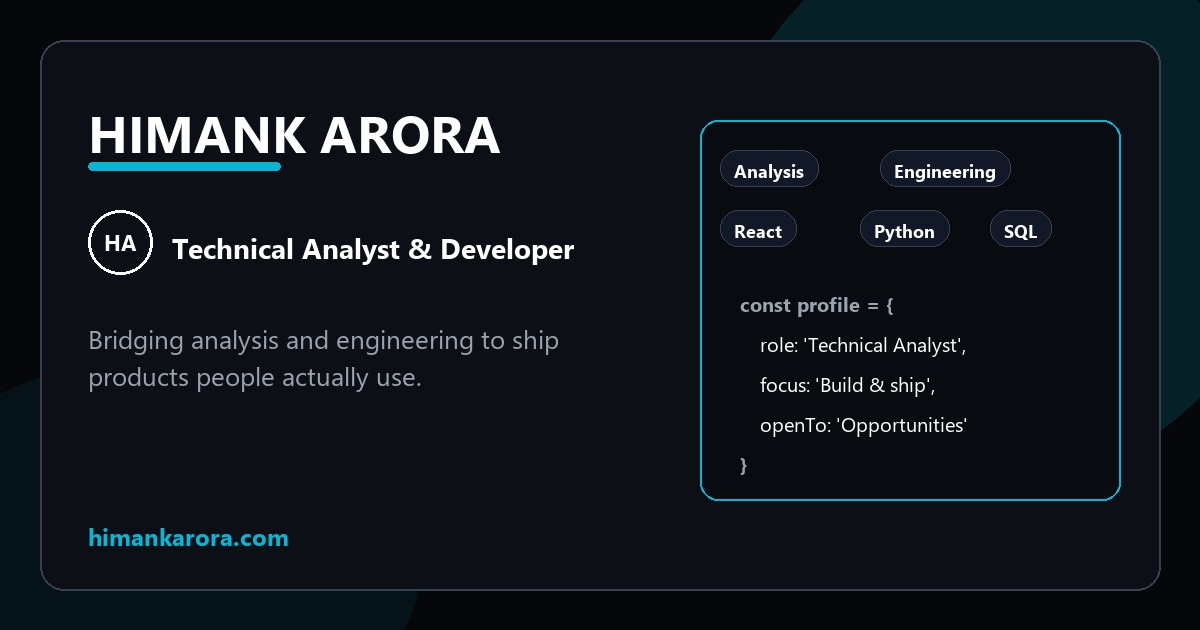
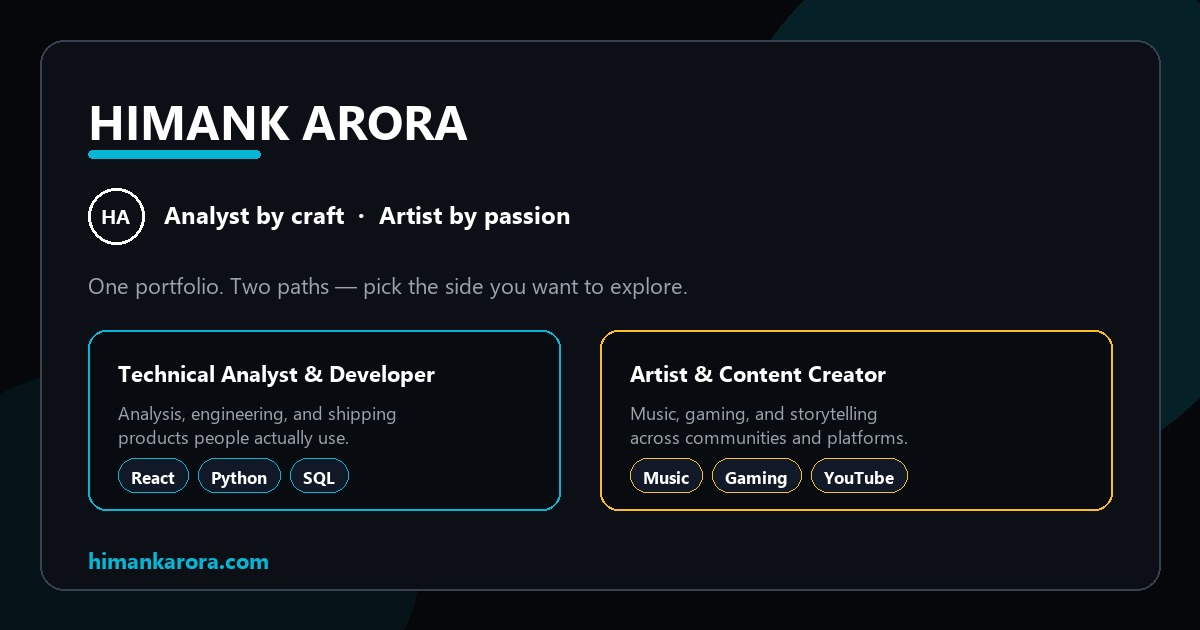
Make hub share preview dual-identity; add tech and artist OG images.

diff --git a/public/index.html b/public/index.html
@@ -22,23 +22,23 @@
     <meta name="geo.placename" content="Boston" />
     
     <!-- Enhanced Open Graph Meta Tags -->
-    <meta property="og:title" content="Himank Arora - Technical Analyst & Developer Portfolio" />
-    <meta property="og:description" content="IT professional who bridges analysis and engineering: turning business needs into working products. Also a creative artist and content creator." />
+    <meta property="og:title" content="Himank Arora — Analyst by craft, Artist by passion" />
+    <meta property="og:description" content="Explore both sides: Technical Analyst & Developer, and Artist & Content Creator. Analysis-driven product work, development projects, music, and creative content." />
     <meta property="og:type" content="website" />
     <meta property="og:url" content="https://himankarora.com" />
     <meta property="og:image" content="https://himankarora.com/images/og-image.jpg" />
     <meta property="og:image:width" content="1200" />
     <meta property="og:image:height" content="630" />
-    <meta property="og:image:alt" content="Himank Arora - Technical Analyst & Developer Portfolio" />
+    <meta property="og:image:alt" content="Himank Arora — Technical Analyst & Developer and Artist & Content Creator" />
     <meta property="og:site_name" content="Himank Arora Portfolio" />
     <meta property="og:locale" content="en_US" />
     
     <!-- Enhanced Twitter Card Meta Tags -->
     <meta name="twitter:card" content="summary_large_image" />
-    <meta name="twitter:title" content="Himank Arora - Technical Analyst & Developer" />
-    <meta name="twitter:description" content="Portfolio showcasing analysis-driven product work, development projects, music, and creative content." />
+    <meta name="twitter:title" content="Himank Arora — Analyst by craft, Artist by passion" />
+    <meta name="twitter:description" content="Explore both sides: Technical Analyst & Developer, and Artist & Content Creator." />
     <meta name="twitter:image" content="https://himankarora.com/images/twitter-image.jpg" />
-    <meta name="twitter:image:alt" content="Himank Arora Portfolio Preview" />
+    <meta name="twitter:image:alt" content="Himank Arora dual portfolio preview" />
     <meta name="twitter:creator" content="@himankaroraa" />
     <meta name="twitter:site" content="@himankaroraa" />
     

diff --git a/src/utils/contentManager.js b/src/utils/contentManager.js
@@ -586,6 +586,8 @@ export const contentData = {
     site_url: "https://himankarora.com",
     site_name: "Himank Arora Portfolio",
     og_image: "/images/og-image.jpg",
+    og_image_tech: "/images/og-image-tech.jpg",
+    og_image_artist: "/images/og-image-artist.jpg",
     twitter_image: "/images/twitter-image.jpg",
     favicon: "/favicon.ico",
     last_updated: new Date().toISOString(),
@@ -661,8 +663,8 @@ export const getCertificationById = (id) => {
 // SEO helpers
 export const generateSEOData = (page) => {
   const baseData = {
-    title: `${contentData.personal.name} - ${contentData.personal.title}`,
-    description: contentData.personal.bio,
+    title: `${contentData.personal.name} — Analyst by craft, Artist by passion`,
+    description: "Explore both sides: Technical Analyst & Developer, and Artist & Content Creator. Analysis-driven product work, development projects, music, and creative content.",
     url: contentData.meta.site_url,
     image: `${contentData.meta.site_url}${contentData.meta.og_image}`,
     keywords: contentData.meta.keywords.join(', ')
@@ -674,6 +676,7 @@ export const generateSEOData = (page) => {
         ...baseData,
         title: `${contentData.personal.name} - Technical Analyst & Developer`,
         description: "IT professional who bridges analysis and engineering: turning business needs into working products across data tools, web apps, and AI-enabled systems.",
+        image: `${contentData.meta.site_url}${contentData.meta.og_image_tech}`,
         keywords: [
           ...contentData.meta.keywords,
           "portfolio",
@@ -686,8 +689,9 @@ export const generateSEOData = (page) => {
     case 'artist':
       return {
         ...baseData,
-        title: `${contentData.personal.name} - Content Creator & Musician`,
+        title: `${contentData.personal.name} - Artist & Content Creator`,
         description: contentData.artist.bio,
+        image: `${contentData.meta.site_url}${contentData.meta.og_image_artist}`,
         keywords: [
           ...contentData.meta.keywords,
           "musician",

diff --git a/scripts/generate-share-assets.py b/scripts/generate-share-assets.py
@@ -11,9 +11,11 @@ IMAGES.mkdir(parents=True, exist_ok=True)
 BG = (5, 7, 11)
 PANEL = (12, 16, 22)
 CYAN = (6, 182, 212)
+AMBER = (251, 191, 36)
 WHITE = (255, 255, 255)
 MUTED = (156, 163, 175)
-BORDER = (255, 255, 255, 28)
+CHIP_BG = (17, 24, 39)
+CHIP_BORDER = (55, 65, 81)
 
 
 def font(size, bold=False):
@@ -27,37 +29,81 @@ def font(size, bold=False):
     return ImageFont.load_default()
 
 
-def draw_share_card(path: Path, width=1200, height=630):
+def base_canvas(width=1200, height=630, accent=CYAN):
     img = Image.new("RGB", (width, height), BG)
-    draw = ImageDraw.Draw(img)
-
-    # Soft cyan glow
     glow = Image.new("RGBA", (width, height), (0, 0, 0, 0))
     gdraw = ImageDraw.Draw(glow)
-    gdraw.ellipse((720, -80, 1280, 480), fill=(6, 182, 212, 36))
-    gdraw.ellipse((-120, 360, 420, 760), fill=(6, 182, 212, 18))
+    gdraw.ellipse((720, -80, 1280, 480), fill=(*accent, 36))
+    gdraw.ellipse((-120, 360, 420, 760), fill=(*accent, 18))
     img = Image.alpha_composite(img.convert("RGBA"), glow).convert("RGB")
     draw = ImageDraw.Draw(img)
-
-    # Inner panel
     margin = 40
     draw.rounded_rectangle(
         (margin, margin, width - margin, height - margin),
         radius=24,
         fill=PANEL,
-        outline=(55, 65, 81),
+        outline=CHIP_BORDER,
         width=2,
     )
+    return img, draw
 
-    # Left content
-    draw.text((88, 96), "HIMANK ARORA", font=font(52, bold=True), fill=WHITE)
-    draw.rounded_rectangle((88, 162, 280, 170), radius=4, fill=CYAN)
 
-    badge_x, badge_y = 88, 210
-    draw.ellipse((badge_x, badge_y, badge_x + 64, badge_y + 64), outline=WHITE, width=3)
-    draw.text((badge_x + 32, badge_y + 32), "HA", font=font(22, bold=True), fill=WHITE, anchor="mm")
+def draw_chip(draw, x, y, label, accent=CYAN):
+    tw = draw.textlength(label, font=font(17, bold=True))
+    w, h = tw + 26, 34
+    draw.rounded_rectangle((x, y, x + w, y + h), radius=17, fill=CHIP_BG, outline=accent)
+    draw.text((x + 13, y + 7), label, font=font(17, bold=True), fill=WHITE)
+    return w
+
+
+def draw_hub_card(path: Path):
+    """Dual-identity card for himankarora.com homepage shares."""
+    img, draw = base_canvas()
+
+    draw.text((88, 88), "HIMANK ARORA", font=font(48, bold=True), fill=WHITE)
+    draw.rounded_rectangle((88, 150, 260, 158), radius=4, fill=CYAN)
+
+    badge_x, badge_y = 88, 188
+    draw.ellipse((badge_x, badge_y, badge_x + 56, badge_y + 56), outline=WHITE, width=3)
+    draw.text((badge_x + 28, badge_y + 28), "HA", font=font(20, bold=True), fill=WHITE, anchor="mm")
+    draw.text((164, 198), "Analyst by craft  ·  Artist by passion", font=font(24, bold=True), fill=WHITE)
+
+    draw.text(
+        (88, 270),
+        "One portfolio. Two paths — pick the side you want to explore.",
+        font=font(22),
+        fill=MUTED,
+    )
+
+    # Tech path card
+    draw.rounded_rectangle((88, 330, 560, 510), radius=18, fill=(8, 11, 16), outline=CYAN, width=2)
+    draw.text((118, 358), "Technical Analyst & Developer", font=font(22, bold=True), fill=WHITE)
+    draw.text((118, 400), "Analysis, engineering, and shipping\nproducts people actually use.", font=font(18), fill=MUTED, spacing=4)
+    x = 118
+    for label in ("React", "Python", "SQL"):
+        x += draw_chip(draw, x, 458, label, CYAN) + 10
+
+    # Artist path card
+    draw.rounded_rectangle((600, 330, 1112, 510), radius=18, fill=(8, 11, 16), outline=AMBER, width=2)
+    draw.text((630, 358), "Artist & Content Creator", font=font(22, bold=True), fill=WHITE)
+    draw.text((630, 400), "Music, gaming, and storytelling\nacross communities and platforms.", font=font(18), fill=MUTED, spacing=4)
+    x = 630
+    for label in ("Music", "Gaming", "YouTube"):
+        x += draw_chip(draw, x, 458, label, AMBER) + 10
+
+    draw.text((88, 545), "himankarora.com", font=font(22, bold=True), fill=CYAN)
+
+    img.save(path, "JPEG", quality=92, optimize=True)
+    print(f"Wrote {path}")
+
+
+def draw_tech_card(path: Path):
+    img, draw = base_canvas(accent=CYAN)
+    draw.text((88, 96), "HIMANK ARORA", font=font(50, bold=True), fill=WHITE)
+    draw.rounded_rectangle((88, 160, 270, 168), radius=4, fill=CYAN)
+    draw.ellipse((88, 210, 152, 274), outline=WHITE, width=3)
+    draw.text((120, 242), "HA", font=font(22, bold=True), fill=WHITE, anchor="mm")
     draw.text((172, 228), "Technical Analyst & Developer", font=font(28, bold=True), fill=WHITE)
-
     draw.text(
         (88, 320),
         "Bridging analysis and engineering to ship\nproducts people actually use.",
@@ -65,29 +111,53 @@ def draw_share_card(path: Path, width=1200, height=630):
         fill=MUTED,
         spacing=8,
     )
-    draw.text((88, 520), "himankarora.com", font=font(24, bold=True), fill=CYAN)
+    draw.text((88, 520), "himankarora.com/tech", font=font(24, bold=True), fill=CYAN)
 
-    # Right visual: role chips + faux code card
-    card = (700, 120, 1120, 500)
-    draw.rounded_rectangle(card, radius=18, fill=(8, 11, 16), outline=(6, 182, 212), width=2)
-
-    chips = [
-        (720, 150, "Analysis"),
-        (880, 150, "Engineering"),
-        (720, 210, "React"),
-        (860, 210, "Python"),
-        (990, 210, "SQL"),
-    ]
-    for x, y, label in chips:
-        tw = draw.textlength(label, font=font(18, bold=True))
-        draw.rounded_rectangle((x, y, x + tw + 28, y + 36), radius=18, fill=(17, 24, 39), outline=(55, 65, 81))
-        draw.text((x + 14, y + 8), label, font=font(18, bold=True), fill=WHITE)
+    draw.rounded_rectangle((700, 120, 1120, 500), radius=18, fill=(8, 11, 16), outline=CYAN, width=2)
+    x, y = 720, 150
+    for label in ("Analysis", "Engineering", "React", "Python", "SQL"):
+        w = draw_chip(draw, x, y, label, CYAN)
+        x += w + 12
+        if x > 1000:
+            x, y = 720, 210
 
     draw.text((740, 290), "const profile = {", font=font(20, bold=True), fill=MUTED)
     draw.text((760, 330), "role: 'Technical Analyst',", font=font(20), fill=WHITE)
     draw.text((760, 370), "focus: 'Build & ship',", font=font(20), fill=WHITE)
     draw.text((760, 410), "openTo: 'Opportunities'", font=font(20), fill=WHITE)
     draw.text((740, 450), "}", font=font(20, bold=True), fill=MUTED)
+
+    img.save(path, "JPEG", quality=92, optimize=True)
+    print(f"Wrote {path}")
+
+
+def draw_artist_card(path: Path):
+    img, draw = base_canvas(accent=AMBER)
+    draw.text((88, 96), "HIMANK ARORA", font=font(50, bold=True), fill=WHITE)
+    draw.rounded_rectangle((88, 160, 270, 168), radius=4, fill=AMBER)
+    draw.ellipse((88, 210, 152, 274), outline=WHITE, width=3)
+    draw.text((120, 242), "HA", font=font(22, bold=True), fill=WHITE, anchor="mm")
+    draw.text((172, 228), "Artist & Content Creator", font=font(28, bold=True), fill=WHITE)
+    draw.text(
+        (88, 320),
+        "Music, gaming, and digital storytelling\nbuilt around authentic communities.",
+        font=font(26),
+        fill=MUTED,
+        spacing=8,
+    )
+    draw.text((88, 520), "himankarora.com/artist", font=font(24, bold=True), fill=AMBER)
+
+    draw.rounded_rectangle((700, 120, 1120, 500), radius=18, fill=(8, 11, 16), outline=AMBER, width=2)
+    x, y = 720, 150
+    for label in ("Music", "Gaming", "YouTube", "Streaming", "Community"):
+        w = draw_chip(draw, x, y, label, AMBER)
+        x += w + 12
+        if x > 980:
+            x, y = 720, 210
+
+    draw.text((740, 300), "Creating through", font=font(22), fill=MUTED)
+    draw.text((740, 350), "sound, games,", font=font(28, bold=True), fill=WHITE)
+    draw.text((740, 400), "and stories.", font=font(28, bold=True), fill=WHITE)
 
     img.save(path, "JPEG", quality=92, optimize=True)
     print(f"Wrote {path}")
@@ -104,10 +174,12 @@ def draw_favicon_base(size=512):
 
 
 def main():
-    og = IMAGES / "og-image.jpg"
-    twitter = IMAGES / "twitter-image.jpg"
-    draw_share_card(og)
-    draw_share_card(twitter)
+    # Hub / default share previews
+    draw_hub_card(IMAGES / "og-image.jpg")
+    draw_hub_card(IMAGES / "twitter-image.jpg")
+    # Page-specific previews
+    draw_tech_card(IMAGES / "og-image-tech.jpg")
+    draw_artist_card(IMAGES / "og-image-artist.jpg")
 
     base = draw_favicon_base(512)
     base.resize((180, 180), Image.Resampling.LANCZOS).save(PUBLIC / "apple-touch-icon.png", "PNG")
@@ -116,7 +188,6 @@ def main():
     base.resize((192, 192), Image.Resampling.LANCZOS).save(PUBLIC / "android-chrome-192x192.png", "PNG")
     base.resize((512, 512), Image.Resampling.LANCZOS).save(PUBLIC / "android-chrome-512x512.png", "PNG")
 
-    # Multi-size ICO
     ico_sizes = [(16, 16), (32, 32), (48, 48)]
     ico_images = [base.resize(s, Image.Resampling.LANCZOS) for s in ico_sizes]
     ico_images[0].save(
@@ -126,7 +197,6 @@ def main():
         append_images=ico_images[1:],
     )
 
-    # Safari pinned tab: simple monochrome SVG already referenced; write a clean one
     (PUBLIC / "safari-pinned-tab.svg").write_text(
         """<svg xmlns="http://www.w3.org/2000/svg" viewBox="0 0 16 16">
   <circle cx="8" cy="8" r="6.5" fill="black"/>
@@ -136,7 +206,6 @@ def main():
         encoding="utf-8",
     )
 
-    # Improve main favicon.svg with dark fill for visibility
     (PUBLIC / "favicon.svg").write_text(
         """<svg xmlns="http://www.w3.org/2000/svg" viewBox="0 0 32 32">
   <circle cx="16" cy="16" r="15" fill="#05070b"/>
